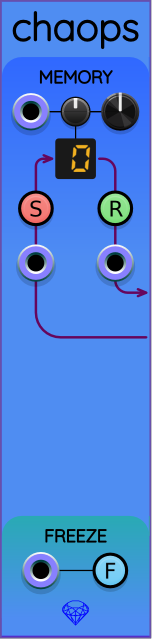
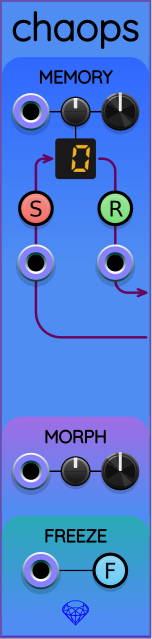
Chaops: added control group MORPH that combines position and velocity vectors.

Changed region(s): [[0.0, 0.6244, 1.0, 0.7731]]

diff --git a/src/sapphire_chaos_module.hpp b/src/sapphire_chaos_module.hpp
@@ -150,10 +150,10 @@ namespace Sapphire
                         json_t* jz = json_object_get(cell, "z");
                         if (json_is_real(jx) && json_is_real(jy) && json_is_real(jz))
                         {
-                            double vx = json_real_value(jx);
-                            double vy = json_real_value(jy);
-                            double vz = json_real_value(jz);
-                            memory[i] = ChaoticOscillatorState(vx, vy, vz);
+                            double xpos = json_real_value(jx);
+                            double ypos = json_real_value(jy);
+                            double zpos = json_real_value(jz);
+                            memory[i] = ChaoticOscillatorState(xpos, ypos, zpos);
                         }
                     }
                 }
@@ -164,6 +164,7 @@ namespace Sapphire
                 using namespace Sapphire::ChaosOperators;
 
                 bool shouldUpdateCircuit = true;
+                float morph = 0;        // 0 = position, 1 = velocity
 
                 const Message* message = receiver.inboundMessage();
                 if (message != nullptr)
@@ -184,6 +185,8 @@ namespace Sapphire
                         shouldUpdateCircuit = false;
                         shouldClearTricorder = true;
                     }
+
+                    morph = message->morph;
                 }
 
                 if (shouldUpdateCircuit)
@@ -197,14 +200,21 @@ namespace Sapphire
                     circuit.update(dt);
                 }
 
-                float vx = setFlippableOutputVoltage(X_OUTPUT, circuit.vx());
-                float vy = setFlippableOutputVoltage(Y_OUTPUT, circuit.vy());
-                float vz = setFlippableOutputVoltage(Z_OUTPUT, circuit.vz());
+                float xpos = setFlippableOutputVoltage(X_OUTPUT, circuit.xpos());
+                float ypos = setFlippableOutputVoltage(Y_OUTPUT, circuit.ypos());
+                float zpos = setFlippableOutputVoltage(Z_OUTPUT, circuit.zpos());
+
+                SlopeVector vel = circuit.velocity();
+
+                float xmix = (1-morph)*xpos + morph*vel.mx;
+                float ymix = (1-morph)*ypos + morph*vel.my;
+                float zmix = (1-morph)*zpos + morph*vel.mz;
+
                 outputs[POLY_OUTPUT].setChannels(3);
-                outputs[POLY_OUTPUT].setVoltage(vx, 0);
-                outputs[POLY_OUTPUT].setVoltage(vy, 1);
-                outputs[POLY_OUTPUT].setVoltage(vz, 2);
-                sendVector(vx, vy, vz, shouldClearTricorder);
+                outputs[POLY_OUTPUT].setVoltage(xmix, 0);
+                outputs[POLY_OUTPUT].setVoltage(ymix, 1);
+                outputs[POLY_OUTPUT].setVoltage(zmix, 2);
+                sendVector(xmix, ymix, zmix, shouldClearTricorder);
                 shouldClearTricorder = false;
             }
         };

diff --git a/util/make_sapphire_svg.py b/util/make_sapphire_svg.py
@@ -110,6 +110,7 @@ def GenerateChaosOperatorsPanel(cdict:Dict[str,ControlLayer]) -> int:
     yMemoryDisplay = 32.0
     yMemoryButton  = 42.0
     yMemoryTriggerPorts = 53.0
+    yMorph = 95.0
     yFreezeButton = 115.0
     yRecallLine = 59.0
     yStoreLine  = 68.0
@@ -119,6 +120,8 @@ def GenerateChaosOperatorsPanel(cdict:Dict[str,ControlLayer]) -> int:
     y2MemoryGradient = yMemoryButton + dyGradient
     y1FreezeGradient = yFreezeButton - dyGradient
     y2FreezeGradient = panel.mmHeight - 4.0
+    y1MorphGradient  = yMorph - dyGradient
+    y2MorphGradient  = y1FreezeGradient - 1.0
 
     smallArcRadius  = 1.5
     mediumArcRadius = 2.5
@@ -180,14 +183,16 @@ def GenerateChaosOperatorsPanel(cdict:Dict[str,ControlLayer]) -> int:
 
     with Font(SAPPHIRE_FONT_FILENAME) as font:
         pl.append(BorderRect(PANEL_WIDTH, SAPPHIRE_PANEL_COLOR, SAPPHIRE_BORDER_COLOR))
-        AddGradient(y1MemoryGradient, y2MemoryGradient, SAPPHIRE_AZURE_COLOR, SAPPHIRE_PANEL_COLOR, 'memory')
-        AddGradient(y1FreezeGradient, y2FreezeGradient, SAPPHIRE_TEAL_COLOR,  SAPPHIRE_PANEL_COLOR, 'freeze')
+        AddGradient(y1MemoryGradient, y2MemoryGradient, SAPPHIRE_AZURE_COLOR,   SAPPHIRE_PANEL_COLOR, 'memory')
+        AddGradient(y1FreezeGradient, y2FreezeGradient, SAPPHIRE_TEAL_COLOR,    SAPPHIRE_PANEL_COLOR, 'freeze')
+        AddGradient(y1MorphGradient,  y2MorphGradient,  SAPPHIRE_MAGENTA_COLOR, SAPPHIRE_PANEL_COLOR, 'morph')
         pl.append(CenteredGemstone(panel))
         pl.append(ModelNamePath(panel, font, name))
         pl.append(StoreLineArt())
         pl.append(RecallLineArt())
         pl.append(CenteredControlTextPath(font, 'MEMORY', xmid, yMemorySelect - dyButtonText))
         pl.append(CenteredControlTextPath(font, 'FREEZE', xmid, yFreezeButton - dyButtonText))
+        pl.append(CenteredControlTextPath(font, 'MORPH',  xmid, yMorph - dyButtonText))
         pl.append(HorizontalLine(xmid - dxFreezePortButton, xmid + dxFreezePortButton, yFreezeButton, 'freeze_line_art'))
         pl.append(VerticalLine(xmid, yMemorySelect, yMemoryDisplay, 'memory_vline'))
         AddFlatControlGroup(pl, controls, xmid, yMemorySelect, 'memsel')
@@ -198,6 +203,7 @@ def GenerateChaosOperatorsPanel(cdict:Dict[str,ControlLayer]) -> int:
         controls.append(Component('memory_address_display', xmid, yMemoryDisplay))
         controls.append(Component('freeze_button', xmid + dxFreezePortButton, yFreezeButton))
         controls.append(Component('freeze_input',  xmid - dxFreezePortButton, yFreezeButton))
+        AddFlatControlGroup(pl, controls, xmid, yMorph, 'morph')
     return Save(panel, svgFileName)
 
 

diff --git a/src/chaos.hpp b/src/chaos.hpp
@@ -97,6 +97,10 @@ namespace Sapphire
         const double zmin;
         const double zmax;
 
+        const double xVelScale;
+        const double yVelScale;
+        const double zVelScale;
+
         double x1{};
         double y1{};
         double z1{};
@@ -119,7 +123,8 @@ namespace Sapphire
             double _x0, double _y0, double _z0,
             double _xmin, double _xmax,
             double _ymin, double _ymax,
-            double _zmin, double _zmax
+            double _zmin, double _zmax,
+            double _xVelScale, double _yVelScale, double _zVelScale
         )
             : max_dt(_max_dt)
             , x0(_x0)
@@ -131,6 +136,9 @@ namespace Sapphire
             , ymax(_ymax)
             , zmin(_zmin)
             , zmax(_zmax)
+            , xVelScale(_xVelScale)
+            , yVelScale(_yVelScale)
+            , zVelScale(_zVelScale)
         {
             initialize();
         }
@@ -184,10 +192,20 @@ namespace Sapphire
             return 0;
         }
 
-        // Scaled values...
-        double vx() const { return Remap(x1, xmin, xmax); }
-        double vy() const { return Remap(y1, ymin, ymax); }
-        double vz() const { return Remap(z1, zmin, zmax); }
+        // Scaled position values.
+        double xpos() const { return Remap(x1, xmin, xmax); }
+        double ypos() const { return Remap(y1, ymin, ymax); }
+        double zpos() const { return Remap(z1, zmin, zmax); }
+
+        // Scale velocity vector.
+        SlopeVector velocity() const
+        {
+            SlopeVector vec = slopes(x1, y1, z1);
+            vec.mx *= xVelScale;
+            vec.my *= yVelScale;
+            vec.mz *= zVelScale;
+            return vec;
+        }
 
         void update(double dt)
         {
@@ -236,7 +254,8 @@ namespace Sapphire
                 0.788174, 0.522280, 1.250344,
                 -10.15,  +10.17,
                  -5.570,  +5.565,
-                  0.000, +15.387)
+                  0.000, +15.387,
+                0.2, 0.2, 0.2)
             {}
     };
 
@@ -284,7 +303,8 @@ namespace Sapphire
                 0.349, 0.001, -0.16,
                 -150, +150,
                 -200, +200,
-                 -60, +300)
+                 -60, +300,
+                0.015, 0.0075, 0.0075)
             {}
 
         int getModeCount() const override
@@ -347,7 +367,8 @@ namespace Sapphire
                 0.440125, -0.781267, -0.277170,
                 -1.51, +1.51,
                 -1.46, +1.54,
-                -0.39, +1.86)
+                -0.39, +1.86,
+                1, 1, 3.5)
             {}
 
         int getModeCount() const override

diff --git a/src/chaops_vcv.cpp b/src/chaops_vcv.cpp
@@ -16,6 +16,8 @@ namespace Sapphire
             STORE_BUTTON_PARAM,
             RECALL_BUTTON_PARAM,
             FREEZE_BUTTON_PARAM,
+            MORPH_PARAM,
+            MORPH_ATTEN,
             PARAMS_LEN
         };
 
@@ -25,6 +27,7 @@ namespace Sapphire
             STORE_TRIGGER_INPUT,
             RECALL_TRIGGER_INPUT,
             FREEZE_INPUT,
+            MORPH_CV_INPUT,
             INPUTS_LEN
         };
 
@@ -67,6 +70,8 @@ namespace Sapphire
                 configInput(STORE_TRIGGER_INPUT, "Store trigger");
                 configInput(RECALL_TRIGGER_INPUT, "Recall trigger");
                 configInput(FREEZE_INPUT, "Freeze gate");
+                configParam(MORPH_PARAM, 0, 1, 0, "Morph position/velocity");
+                configParam(MORPH_ATTEN, -1, +1, 0, "Morph attenuverter", "%", 0, 100);
                 initialize();
             }
 
@@ -98,6 +103,11 @@ namespace Sapphire
                 slider += attenu * cv;
                 int index = max(0u, static_cast<unsigned>(round(slider)) % MemoryCount);
                 return index;
+            }
+
+            float getMorph()
+            {
+                return getControlValue(MORPH_PARAM, MORPH_ATTEN, MORPH_CV_INPUT);
             }
 
             bool getStoreTrigger()
@@ -143,11 +153,11 @@ namespace Sapphire
                     message.store = getStoreTrigger();
                     message.recall = getRecallTrigger();
                     message.freeze = frozen = getFreezeGate();
+                    message.morph = getMorph();
                     sender.send(message);
 
                     // HACK: "currentChannelCount" is really the displayed memory address.
                     currentChannelCount = message.memoryIndex;
-
 
                     if (message.store)
                         storeFlashCounter = flashDurationSamples(args.sampleRate);
@@ -213,6 +223,8 @@ namespace Sapphire
                 addSapphireInput(STORE_TRIGGER_INPUT, "store_trigger");
                 addSapphireInput(RECALL_TRIGGER_INPUT, "recall_trigger");
                 addSapphireInput(FREEZE_INPUT, "freeze_input");
+
+                addSapphireFlatControlGroup("morph", MORPH_PARAM, MORPH_ATTEN, MORPH_CV_INPUT);
 
                 addSapphireChannelDisplay("memory_address_display");
             }

diff --git a/util/unittest/unittest.cpp b/util/unittest/unittest.cpp
@@ -591,9 +591,9 @@ static int QuadraticTest()
 
 static int CheckLimits(const Sapphire::ChaoticOscillator& osc, double range)
 {
-    double x = osc.vx();
-    double y = osc.vy();
-    double z = osc.vz();
+    double x = osc.xpos();
+    double y = osc.ypos();
+    double z = osc.zpos();
     if (!std::isfinite(x) || std::abs(x) > range)
     {
         printf("x is out of bounds: %lg is beyond limit %lg\n", x, range);
@@ -644,23 +644,23 @@ static int RangeTest(
     const long SIM_SAMPLES = SIM_SECONDS * SAMPLE_RATE;
     const double dt = 1.0 / SAMPLE_RATE;
 
-    double xMin = osc.vx();
-    double xMax = osc.vx();
-    double yMin = osc.vy();
-    double yMax = osc.vy();
-    double zMin = osc.vz();
-    double zMax = osc.vz();
+    double xMin = osc.xpos();
+    double xMax = osc.xpos();
+    double yMin = osc.ypos();
+    double yMax = osc.ypos();
+    double zMin = osc.zpos();
+    double zMax = osc.zpos();
 
     for (long i = 0; i < SIM_SAMPLES; ++i)
     {
         osc.update(dt);
         if (CheckLimits(osc, range)) return 1;
-        xMin = std::min(xMin, osc.vx());
-        xMax = std::max(xMax, osc.vx());
-        yMin = std::min(yMin, osc.vy());
-        yMax = std::max(yMax, osc.vy());
-        zMin = std::min(zMin, osc.vz());
-        zMax = std::max(zMax, osc.vz());
+        xMin = std::min(xMin, osc.xpos());
+        xMax = std::max(xMax, osc.xpos());
+        yMin = std::min(yMin, osc.ypos());
+        yMax = std::max(yMax, osc.ypos());
+        zMin = std::min(zMin, osc.zpos());
+        zMax = std::max(zMax, osc.zpos());
     }
 
     printf("vx range: %10.6lf %10.6lf\n", xMin, xMax);

diff --git a/src/sapphire_vcvrack.hpp b/src/sapphire_vcvrack.hpp
@@ -207,8 +207,8 @@ namespace Sapphire
             bool recall = false;
             bool freeze = false;
             unsigned memoryIndex = 0;       // 0..(MemoryCount-1)
+            float morph = 0;
         };
-
 
         struct Sender
         {
@@ -224,7 +224,6 @@ namespace Sapphire
 
             void send(const Message& message)
             {
-                //INFO("sending chaops message: timeFactor = %g", message.timeFactor); // timeFactor = 0.1
                 Message& prod = *static_cast<Message*>(parentModule.rightExpander.producerMessage);
                 prod = message;
                 parentModule.rightExpander.requestMessageFlip();

diff --git a/src/sapphire_panel.cpp b/src/sapphire_panel.cpp
@@ -15,6 +15,9 @@ namespace Sapphire
             {"memsel_atten",           {  15.240,   22.500}},
             {"memsel_cv",              {   6.240,   22.500}},
             {"memsel_knob",            {  24.240,   22.500}},
+            {"morph_atten",            {  15.240,   95.000}},
+            {"morph_cv",               {   6.240,   95.000}},
+            {"morph_knob",             {  24.240,   95.000}},
             {"recall_button",          {  23.240,   42.000}},
             {"recall_trigger",         {  23.240,   53.000}},
             {"store_button",           {   7.240,   42.000}},
